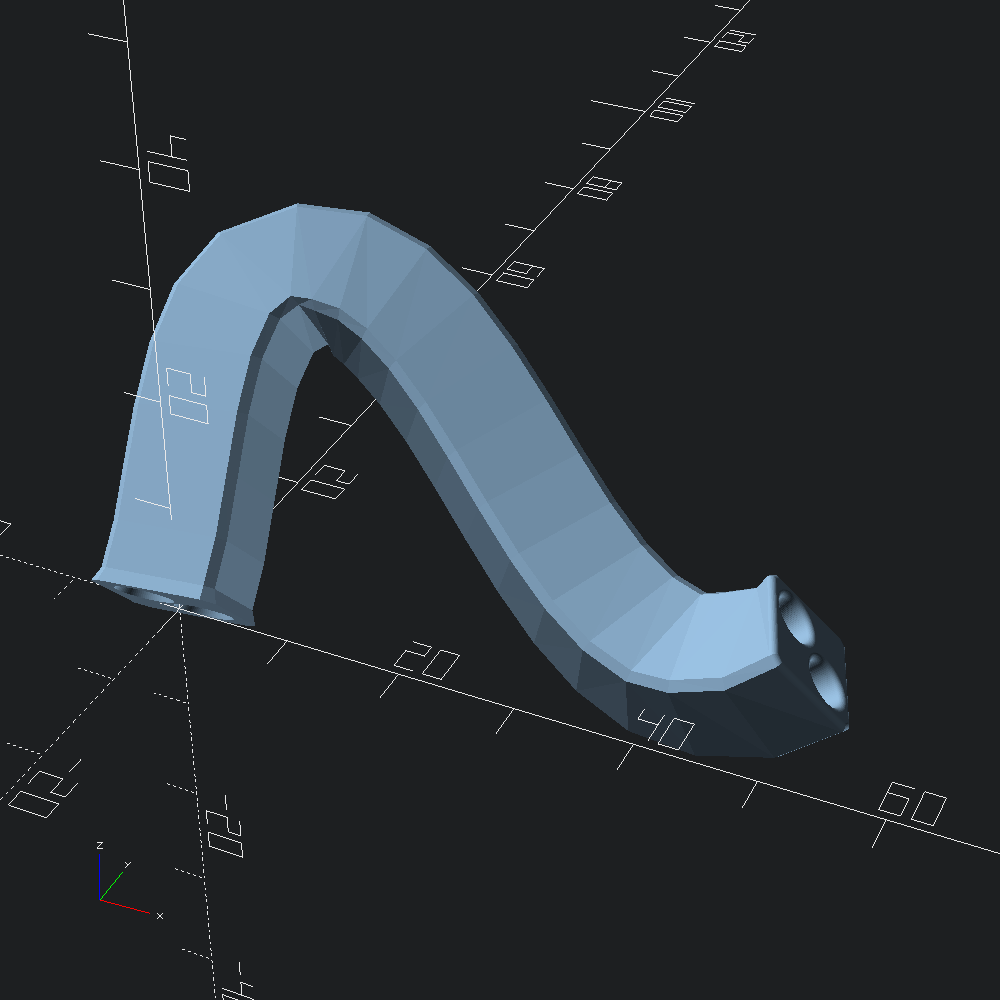
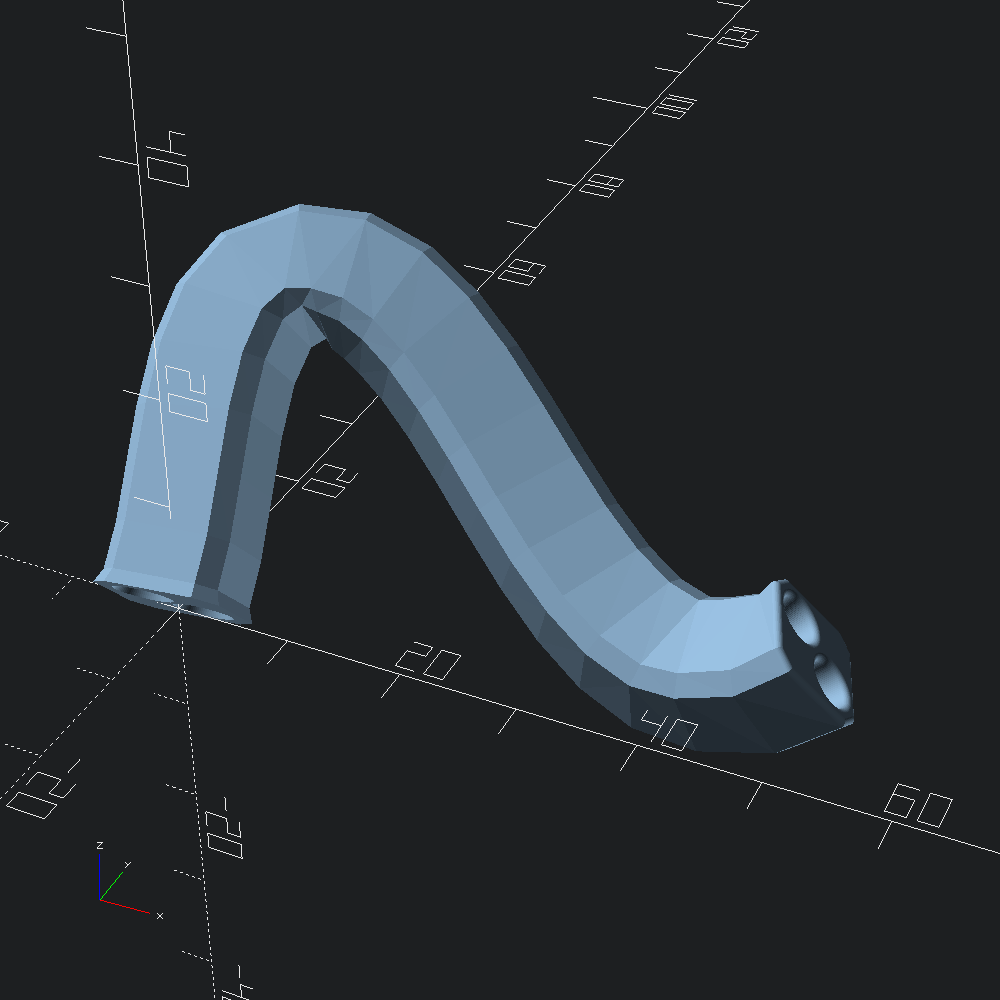
deploy: a351e919ddd36df14385c6fff23ac99229261c29

diff --git a/scad_ml/rounded_polyhole_sweep.html b/scad_ml/rounded_polyhole_sweep.html
@@ -1,9 +1,13 @@
 <!DOCTYPE html>
-<html xmlns="http://www.w3.org/1999/xhtml"><head><title>rounded_polyhole_sweep (scad_ml.rounded_polyhole_sweep)</title><link rel="stylesheet" href="../odoc.css"/><meta charset="utf-8"/><meta name="generator" content="odoc 2.1.0"/><meta name="viewport" content="width=device-width,initial-scale=1.0"/><script src="../highlight.pack.js"></script><script>hljs.initHighlightingOnLoad();</script></head><body class="odoc"><nav class="odoc-nav"><a href="index.html">Up</a> – <a href="index.html">scad_ml</a> &#x00BB; rounded_polyhole_sweep</nav><header class="odoc-preamble"><h1 id="rounded-sweep-with-holes"><a href="#rounded-sweep-with-holes" class="anchor"></a>Rounded sweep with holes</h1><pre><code>open Scad_ml</code></pre><p>Create a bezier spline function which passes through all of points in <code>control</code> using <a href="Scad_ml/Bezier3/index.html#val-of_path"><code>Bezier3.of_path</code></a>, and interpolate <code>20</code> points along it to create our <code>path</code> with <a href="Scad_ml/Bezier3/index.html#val-curve"><code>Bezier3.curve</code></a>.</p><pre><code>let path =
-  let control = Vec3.[ v 0. 0. 2.; v 0. 20. 20.; v 40. 10. 0.; v 50. 10. 5. ] in
-  Bezier3.curve ~fn:20 @@ Bezier3.of_path control</code></pre><p>We can quickly visualize <code>path</code> by using the <a href="Scad_ml/Path3/index.html#val-show_points"><code>Path3.show_points</code></a> helper, which places a <a href="Scad_ml/Scad/index.html#type-d3"><code>Scad.d3</code></a> shape at each point along the path (this takes a function from index to shape, rather than a shape directly to allow for differentiating the points, <i>e.g.</i> numbering with <a href="Scad_ml/Scad/index.html#val-text"><code>Scad.text</code></a>).</p><pre><code>let () =
+<html xmlns="http://www.w3.org/1999/xhtml"><head><title>rounded_polyhole_sweep (scad_ml.rounded_polyhole_sweep)</title><link rel="stylesheet" href="../odoc.css"/><meta charset="utf-8"/><meta name="generator" content="odoc 2.1.0"/><meta name="viewport" content="width=device-width,initial-scale=1.0"/><script src="../highlight.pack.js"></script><script>hljs.initHighlightingOnLoad();</script></head><body class="odoc"><nav class="odoc-nav"><a href="index.html">Up</a> – <a href="index.html">scad_ml</a> &#x00BB; rounded_polyhole_sweep</nav><header class="odoc-preamble"><h1 id="rounded-sweep-with-holes"><a href="#rounded-sweep-with-holes" class="anchor"></a>Rounded sweep with holes</h1><pre><code>open Scad_ml</code></pre><p>Create a bezier spline function which passes through all of points in <code>control</code> using <a href="Scad_ml/Bezier3/index.html#val-of_path"><code>Bezier3.of_path</code></a>, and interpolate <code>20</code> points along it to create our <code>path</code> with <a href="Scad_ml/Bezier3/index.html#val-curve"><code>Bezier3.curve</code></a>.</p><pre><code>let control = Vec3.[ v 0. 0. 2.; v 0. 20. 20.; v 40. 10. 0.; v 50. 10. 5. ]
+let path = Bezier3.curve ~fn:20 @@ Bezier3.of_path control</code></pre><p>We can quickly visualize <code>path</code>, and the <code>control</code> points that it passes through by using the <a href="Scad_ml/Path3/index.html#val-show_points"><code>Path3.show_points</code></a> helper, which places a <a href="Scad_ml/Scad/index.html#type-d3"><code>Scad.d3</code></a> shape at each point along the path (this takes a function from index to shape, rather than a shape directly to allow for differentiating the points, <i>e.g.</i> numbering with <a href="Scad_ml/Scad/index.html#val-text"><code>Scad.text</code></a>).</p><pre><code>let () =
   Scad.to_file &quot;bezier_spline_path.scad&quot;
-  @@ Path3.show_points (fun _ -&gt; Scad.sphere 1.) path</code></pre>
+  @@ Scad.union
+       [ Path3.show_points (fun _ -&gt; Scad.sphere 1.) path
+       ; Path3.show_points
+           (fun _ -&gt; Scad.(color ~alpha:0.3 Color.Magenta @@ sphere 2.))
+           control
+       ]</code></pre>
 <p style="text-align:center;">
 <img src="../assets/bezier_spline_path.png" style="width:150mm;"/>
 </p> <p>Draw a 2d polygon with a chamfered square outline, and two circular holes. Chamfering the square outer path is accomplished via <a href="Scad_ml/Path2/index.html#val-roundover"><code>Path2.roundover</code></a>, which takes a <a href="Scad_ml/Path2/Round/index.html#type-t"><code>Path2.Round.t</code></a> specifation, built here using the <a href="Scad_ml/Path2/Round/index.html#val-flat"><code>Path2.Round.flat</code></a> constructor, that tells <a href="Scad_ml/Path2/index.html#val-roundover"><code>Path2.roundover</code></a> to apply <code>~corner</code> to all of the points of the given path.</p><pre><code>let poly =
@@ -13,13 +17,13 @@
     Path2.[ translate (v2 (-.d) (-.d)) s; translate (v2 d d) s ]
   and outer =
     Path2.square ~center:true (v2 10. 10.)
-    |&gt; Path2.Round.(flat ~corner:(chamf (`Width 1.)))
+    |&gt; Path2.Round.(flat ~corner:(chamf (`Width 2.)))
     |&gt; Path2.roundover
   in
   Poly2.make ~holes outer</code></pre><p>2d shapes defined with <a href="Scad_ml/Poly2/index.html#type-t"><code>Poly2.t</code></a> can be translated into OpenSCAD polygons by way of <a href="Scad_ml/Poly2/index.html#val-to_scad"><code>Poly2.to_scad</code></a>.</p><pre><code>let () = Scad.to_file &quot;chamfered_square_with_holes.scad&quot; (Poly2.to_scad poly)</code></pre>
 <p style="text-align:center;">
 <img src="../assets/chamfered_square_with_holes.png" style="width:150mm;"/>
-</p> <p><a href="Scad_ml/Mesh/index.html#val-sweep"><code>Mesh.sweep</code></a> derived functions take a <code>~spec</code> parameter that specifies what to do with the end faces of the extruded mesh. By default, both caps are flat and identical to the input polygon (<a href="Scad_ml/Mesh/Cap/index.html#val-flat_caps"><code>Mesh.Cap.flat_caps</code></a>), but in this example, we will be rounding them over.</p><p>To build our <code>spec</code>, we'll use the <a href="Scad_ml/Mesh/Cap/index.html#val-capped"><code>Mesh.Cap.capped</code></a> constructor which takes specification types for how we would like to treat the bottom and top faces of our extrusion.</p><p>Here we apply a negative (outward flaring) chamfer to the bottom face, setting <code>holes</code> to <code>`Same</code>, so that the circular holes in <code>poly</code> are also expanded, rather than pinched off (default is (<code>~holes:`Flip</code>), which negates the outer roundover for inner paths). For the top face, we specify a positive (inward) circular roundover, leaving <code>holes</code> as its default since we want the holes to flare out instead.</p><pre><code>let spec =
+</p> <p><a href="Scad_ml/Mesh/index.html#val-sweep"><code>Mesh.sweep</code></a> derived functions take a <code>~spec</code> parameter that specifies what to do with the end faces of the extruded mesh. By default, both caps are flat and identical to the input polygon (<a href="Scad_ml/Mesh/Cap/index.html#val-flat_caps"><code>Mesh.Cap.flat_caps</code></a>), but in this example, we will be rounding them over.</p><p>To build our <code>spec</code>, we'll use the <a href="Scad_ml/Mesh/Cap/index.html#val-capped"><code>Mesh.Cap.capped</code></a> constructor which takes specification types for how we would like to treat the bottom and top faces of our extrusion. In this case, we'll be applying roundovers to both the <code>bot</code>tom and <code>top</code> faces, so we use <a href="Scad_ml/Mesh/Cap/index.html#val-round"><code>Mesh.Cap.round</code></a> which takes an <a href="Scad_ml/Mesh/Cap/index.html#val-offsets"><code>Mesh.Cap.offsets</code></a> containing the offset distance/radius and &quot;vertical&quot; step for each outline of the outer roundover, and optionally, the desired treatment of the inner paths (as <code>~holes</code>). Typically, the offsets will be generated by a helper such as <a href="Scad_ml/Mesh/Cap/index.html#val-chamf"><code>Mesh.Cap.chamf</code></a> and <a href="Scad_ml/Mesh/Cap/index.html#val-circ"><code>Mesh.Cap.circ</code></a> below.</p><p>Here we apply a negative (outward flaring) chamfer to the bottom face, setting <code>holes</code> to <code>`Same</code>, so that the circular holes in <code>poly</code> are also expanded, rather than pinched off (default is (<code>~holes:`Flip</code>), which negates the outer roundover for inner paths). For the top face, we specify a positive (inward) circular roundover, leaving <code>holes</code> as its default since we want the holes to flare out instead.</p><pre><code>let spec =
   Mesh.Cap.(
     capped
       ~bot:(round ~holes:`Same @@ chamf ~height:(-1.2) ~angle:(Float.pi /. 8.) ())

diff --git a/scad_ml/index.html b/scad_ml/index.html
@@ -1,5 +1,5 @@
 <!DOCTYPE html>
-<html xmlns="http://www.w3.org/1999/xhtml"><head><title>index (scad_ml.index)</title><link rel="stylesheet" href="../odoc.css"/><meta charset="utf-8"/><meta name="generator" content="odoc 2.1.0"/><meta name="viewport" content="width=device-width,initial-scale=1.0"/><script src="../highlight.pack.js"></script><script>hljs.initHighlightingOnLoad();</script></head><body class="odoc"><nav class="odoc-nav"><a href="../index.html">Up</a> – scad_ml</nav><header class="odoc-preamble"><h1 id="scad_ml"><a href="#scad_ml" class="anchor"></a>Scad_ml</h1><p>Scad_ml is a OCaml DSL for the <a href="https://openscad.org/">OpenSCAD</a> solid modelling language.</p></header><nav class="odoc-toc"><ul><li><a href="#notable-difference-from-the-openscad-language">Notable difference from the OpenSCAD language</a></li><li><a href="#usage">Usage</a></li><li><a href="#api">API</a></li><li><a href="#examples">Examples</a></li><li><a href="#ppx">[@@deriving scad]</a></li></ul></nav><div class="odoc-content"><h2 id="notable-difference-from-the-openscad-language"><a href="#notable-difference-from-the-openscad-language" class="anchor"></a>Notable difference from the OpenSCAD language</h2><ul><li>Angles are represented in radians (and converted to degrees when compiling to OpenSCAD).</li><li>The dimensional system (2D or 3D) each shape inhabits is tracked by the type system. This is used to restrict the operations that can be legally applied (e.g. 2D shapes cannot be moved off of the xy plane, <a href="Scad_ml/Scad/index.html#val-linear_extrude"><code>linear_extrude</code></a> can only be applied to 2D shapes) and enforcing non-mixing of 2D and 3D shapes during boolean operations.</li><li>Additional modules providing sweeps, roundovers, and more, inspired largely by <a href="https://github.com/revarbat/BOSL2">BOSL2</a>, but also other OpenSCAD libraries such as <a href="https://github.com/JustinSDK/dotSCAD/tree/master/src">dotSCAD</a>, and <a href="https://github.com/rcolyer/plot-function">PlotFunction</a>.</li></ul><h2 id="usage"><a href="#usage" class="anchor"></a>Usage</h2><pre><code>open Scad_ml
+<html xmlns="http://www.w3.org/1999/xhtml"><head><title>index (scad_ml.index)</title><link rel="stylesheet" href="../odoc.css"/><meta charset="utf-8"/><meta name="generator" content="odoc 2.1.0"/><meta name="viewport" content="width=device-width,initial-scale=1.0"/><script src="../highlight.pack.js"></script><script>hljs.initHighlightingOnLoad();</script></head><body class="odoc"><nav class="odoc-nav"><a href="../index.html">Up</a> – scad_ml</nav><header class="odoc-preamble"><h1 id="scad_ml"><a href="#scad_ml" class="anchor"></a>Scad_ml</h1><p>Scad_ml is a OCaml DSL for the <a href="https://openscad.org/">OpenSCAD</a> solid modelling language.</p></header><nav class="odoc-toc"><ul><li><a href="#notable-difference-from-the-openscad-language">Notable difference from the OpenSCAD language</a></li><li><a href="#usage">Usage</a></li><li><a href="#api">API</a></li><li><a href="#examples">Examples</a><ul><li><a href="#paths-and-sweeps">Paths and Sweeps</a></li><li><a href="#rounded-extrusions">Rounded Extrusions</a></li><li><a href="#function-plotting">Function Plotting</a></li></ul></li><li><a href="#ppx">[@@deriving scad]</a></li></ul></nav><div class="odoc-content"><h2 id="notable-difference-from-the-openscad-language"><a href="#notable-difference-from-the-openscad-language" class="anchor"></a>Notable difference from the OpenSCAD language</h2><ul><li>Angles are represented in radians (and converted to degrees when compiling to OpenSCAD).</li><li>The dimensional system (2D or 3D) each shape inhabits is tracked by the type system. This is used to restrict the operations that can be legally applied (e.g. 2D shapes cannot be moved off of the xy plane, <a href="Scad_ml/Scad/index.html#val-linear_extrude"><code>linear_extrude</code></a> can only be applied to 2D shapes) and enforcing non-mixing of 2D and 3D shapes during boolean operations.</li><li>Additional modules providing sweeps, roundovers, and more, inspired largely by <a href="https://github.com/revarbat/BOSL2">BOSL2</a>, but also other OpenSCAD libraries such as <a href="https://github.com/JustinSDK/dotSCAD/tree/master/src">dotSCAD</a>, and <a href="https://github.com/rcolyer/plot-function">PlotFunction</a>.</li></ul><h2 id="usage"><a href="#usage" class="anchor"></a>Usage</h2><pre><code>open Scad_ml
 
 let () =
   let scad_logo =
@@ -14,4 +14,4 @@ let () =
       ; Scad.color ~alpha:0.25 Color.Magenta cross_cyl
       ]
   in
-  Scad.to_file &quot;scad_logo.scad&quot; scad_logo</code></pre> <img src="../assets/scad_logo.png" style="width:125mm;" /> <p>Generted scads can then be viewed with the <a href="https://openscad.org/downloads.html">OpenSCAD viewer</a> as you normally would.</p><h2 id="api"><a href="#api" class="anchor"></a>API</h2><ul class="modules"><li><a href="Scad_ml/index.html"><code>Scad_ml</code></a> </li></ul><h2 id="examples"><a href="#examples" class="anchor"></a>Examples</h2><ul><li><a href="rounded_polyhole_sweep.html"><b>Rounded sweep with holes</b></a></li><li><a href="polar_rose.html"><b>Rose polar plot</b></a></li></ul><h2 id="ppx"><a href="#ppx" class="anchor"></a>[@@deriving scad]</h2><p>There is a companion ppx, <a href="https://github.com/geoffder/ppx_deriving_scad">[@@deriving scad]</a> for generating transformation functions for user-defined records and abstract types made up of the <a href="Scad_ml/Scad/index.html#type-t"><code>Scad.t</code></a>, along with their corresponding vector (<a href="Scad_ml/Vec2/index.html#type-t"><code>Vec2.t</code></a> or <a href="Scad_ml/Vec3/index.html#type-t"><code>Vec3.t</code></a>) types (and those composed of them) provided in this library.</p></div></body></html>
+  Scad.to_file &quot;scad_logo.scad&quot; scad_logo</code></pre> <img src="../assets/scad_logo.png" style="width:125mm;" /> <p>Generted scads can then be viewed with the <a href="https://openscad.org/downloads.html">OpenSCAD viewer</a> as you normally would.</p><h2 id="api"><a href="#api" class="anchor"></a>API</h2><ul class="modules"><li><a href="Scad_ml/index.html"><code>Scad_ml</code></a> </li></ul><h2 id="examples"><a href="#examples" class="anchor"></a>Examples</h2><h3 id="paths-and-sweeps"><a href="#paths-and-sweeps" class="anchor"></a>Paths and Sweeps</h3><ul><li><a href="spline.html"><b>Cubic spline</b></a></li><li><a href="arc_points.html"><b>Arcing paths</b></a></li><li><a href="helices.html"><b>Helical paths and extrusions</b></a></li><li><a href="resampled_path.html"><b>Path resampling and scaling/twisting sweeps</b></a></li><li><a href="spiral.html"><b>Flat spiral with bespoke sweep transforms</b></a></li><li><a href="wave_cylinder.html"><b>Wavey hollow cylinder with bespoke sweep transforms</b></a></li></ul><h3 id="rounded-extrusions"><a href="#rounded-extrusions" class="anchor"></a>Rounded Extrusions</h3><ul><li><a href="rounded_polyhole_sweep.html"><b>Rounded sweep along bezier spline with holes</b></a></li><li><a href="rounded_prism_tunnel.html"><b>Slanted prism with hole</b></a></li></ul><h3 id="function-plotting"><a href="#function-plotting" class="anchor"></a>Function Plotting</h3><ul><li><a href="polar_rose.html"><b>Rose polar plot</b></a></li><li><a href="cartesian_gravity_well.html"><b>Cartesian gravity well</b></a></li><li><a href="axial_chalice.html"><b>Axial chalice</b></a></li></ul><h2 id="ppx"><a href="#ppx" class="anchor"></a>[@@deriving scad]</h2><p>There is a companion ppx, <a href="https://github.com/geoffder/ppx_deriving_scad">[@@deriving scad]</a> for generating transformation functions for user-defined records and abstract types made up of the <a href="Scad_ml/Scad/index.html#type-t"><code>Scad.t</code></a>, along with their corresponding vector (<a href="Scad_ml/Vec2/index.html#type-t"><code>Vec2.t</code></a> or <a href="Scad_ml/Vec3/index.html#type-t"><code>Vec3.t</code></a>) types (and those composed of them) provided in this library.</p></div></body></html>

diff --git a/scad_ml/resampled_path.html b/scad_ml/resampled_path.html
@@ -1,15 +1,19 @@
 <!DOCTYPE html>
-<html xmlns="http://www.w3.org/1999/xhtml"><head><title>resampled_path (scad_ml.resampled_path)</title><link rel="stylesheet" href="../odoc.css"/><meta charset="utf-8"/><meta name="generator" content="odoc 2.1.0"/><meta name="viewport" content="width=device-width,initial-scale=1.0"/><script src="../highlight.pack.js"></script><script>hljs.initHighlightingOnLoad();</script></head><body class="odoc"><nav class="odoc-nav"><a href="index.html">Up</a> – <a href="index.html">scad_ml</a> &#x00BB; resampled_path</nav><header class="odoc-preamble"><h1 id="path-resampling"><a href="#path-resampling" class="anchor"></a>Path resampling</h1><pre><code>open Scad_ml
-
-let () =
-  let path = [ v3 0. 0. 0.; v3 5. 5. 5.; v3 5. 5. 15. ] in
-  let resampled = Path3.resample ~freq:(`Spacing 1.) path in
+<html xmlns="http://www.w3.org/1999/xhtml"><head><title>resampled_path (scad_ml.resampled_path)</title><link rel="stylesheet" href="../odoc.css"/><meta charset="utf-8"/><meta name="generator" content="odoc 2.1.0"/><meta name="viewport" content="width=device-width,initial-scale=1.0"/><script src="../highlight.pack.js"></script><script>hljs.initHighlightingOnLoad();</script></head><body class="odoc"><nav class="odoc-nav"><a href="index.html">Up</a> – <a href="index.html">scad_ml</a> &#x00BB; resampled_path</nav><header class="odoc-preamble"><h1 id="path-resampling-and-scaling/twisting-sweeps"><a href="#path-resampling-and-scaling/twisting-sweeps" class="anchor"></a>Path resampling and scaling/twisting sweeps</h1><pre><code>open Scad_ml</code></pre><p>Oftentimes, we would just like to define our paths without colinear points, such that it only consists of corners. However, some applications call for more fine sampling, and in those times we can reach for <a href="Scad_ml/Path3/index.html#val-resample"><code>Path3.resample</code></a> or <a href="Scad_ml/Path3/index.html#val-subdivide"><code>Path3.subdivide</code></a>. For this example, the exact number of points isn't a concern, so we'll specify a new point spacing as our <code>~freq</code>.</p><pre><code>let path = [ v3 0. 0. 0.; v3 5. 5. 5.; v3 5. 5. 15. ]
+let resampled = Path3.subdivide ~freq:(`Spacing 0.5) path</code></pre><p>Lets visualize our original <code>path</code>, and the <code>resampled</code> points with <a href="Scad_ml/Path3/index.html#val-show_points"><code>Path3.show_points</code></a> to get a sense of how fine our <code>~freq</code> parameter has gotten us.</p><pre><code>let () =
   let old_marks =
-    let s = Scad.color Color.Red @@ Scad.sphere 0.5 in
-    List.map (fun p -&gt; Scad.translate p s) path
-  and new_marks =
-    let s = Scad.color ~alpha:0.1 Color.Yellow @@ Scad.sphere 1.0 in
-    List.map (fun p -&gt; Scad.translate p s) resampled
+    let f _ = Scad.(color ~alpha:0.1 Color.Magenta @@ sphere 0.5) in
+    Path3.show_points f path
+  and new_marks = Path3.show_points (fun _ -&gt; Scad.sphere 0.2) resampled in
+  Scad.to_file &quot;resampled_path.scad&quot; (Scad.union [ old_marks; new_marks ])</code></pre>
+<p style="text-align:center;">
+<img src="../assets/resampled_path.png" style="width:150mm;"/>
+</p> <p>One such alluded to application for resampling, is when additional transformations such as scaling and twisting along a path extrusion is desired.</p><pre><code>let () =
+  let mesh =
+    Mesh.path_extrude ~scale:(v2 4. 1.) ~twist:(Float.pi *. 4.) ~path:resampled
+    @@ Poly2.square ~center:true (v2 1. 0.5)
   in
-  let scad = Scad.union (old_marks @ new_marks) in
-  Scad.to_file &quot;resampled_path.scad&quot; scad</code></pre></header><div class="odoc-content"></div></body></html>
+  Scad.to_file &quot;scaling_twister_extrude.scad&quot; (Mesh.to_scad mesh)</code></pre>
+<p style="text-align:center;">
+<img src="../assets/scaling_twister_extrude.png" style="width:150mm;"/>
+</p> </header><div class="odoc-content"></div></body></html>

diff --git a/scad_ml/rounded_prism_tunnel.html b/scad_ml/rounded_prism_tunnel.html
@@ -1,33 +1,21 @@
 <!DOCTYPE html>
-<html xmlns="http://www.w3.org/1999/xhtml"><head><title>rounded_prism_tunnel (scad_ml.rounded_prism_tunnel)</title><link rel="stylesheet" href="../odoc.css"/><meta charset="utf-8"/><meta name="generator" content="odoc 2.1.0"/><meta name="viewport" content="width=device-width,initial-scale=1.0"/><script src="../highlight.pack.js"></script><script>hljs.initHighlightingOnLoad();</script></head><body class="odoc"><nav class="odoc-nav"><a href="index.html">Up</a> – <a href="index.html">scad_ml</a> &#x00BB; rounded_prism_tunnel</nav><header class="odoc-preamble"><h1 id="rounded-prism-tunnel"><a href="#rounded-prism-tunnel" class="anchor"></a>Rounded Prism Tunnel</h1><pre><code>open Scad_ml
-
-let () =
-  let bot = Poly3.box ~center:true ~thickness:(v2 3. 3.) (v2 5. 5.) in
-  let top =
-    Poly3.translate (v3 0. 0. 5.) (Poly3.rotate (v3 0. (Float.pi /. 4.) 0.) bot)
+<html xmlns="http://www.w3.org/1999/xhtml"><head><title>rounded_prism_tunnel (scad_ml.rounded_prism_tunnel)</title><link rel="stylesheet" href="../odoc.css"/><meta charset="utf-8"/><meta name="generator" content="odoc 2.1.0"/><meta name="viewport" content="width=device-width,initial-scale=1.0"/><script src="../highlight.pack.js"></script><script>hljs.initHighlightingOnLoad();</script></head><body class="odoc"><nav class="odoc-nav"><a href="index.html">Up</a> – <a href="index.html">scad_ml</a> &#x00BB; rounded_prism_tunnel</nav><header class="odoc-preamble"><h1 id="rounded-prism-tunnel"><a href="#rounded-prism-tunnel" class="anchor"></a>Rounded Prism Tunnel</h1><pre><code>open Scad_ml</code></pre><pre><code>let bot = Poly3.box ~center:true ~thickness:(v2 3. 3.) (v2 5. 5.)
+let top = Poly3.translate (v3 0. 0. 5.) (Poly3.rotate (v3 0. (Float.pi /. 4.) 0.) bot)</code></pre><pre><code>let mesh =
+  let outer =
+    Mesh.Prism.spec
+      ~joint_top:(0.8, 0.8)
+      ~joint_bot:(0.8, 0.8)
+      ~joint_sides:(`Flat (1.5, 1.5))
+      ()
+  and holes =
+    `Spec
+      (Mesh.Prism.spec
+         ~joint_top:(-0.5, 0.5)
+         ~joint_bot:(-0.5, 0.5)
+         ~joint_sides:(`Flat (0.5, 0.5))
+         () )
   in
-  let scad =
-    Mesh.(
-      prism
-        ~debug:false
-        ~fn:16
-        ~outer:
-          Prism.(
-            spec
-              ~joint_top:(0.8, 0.8)
-              ~joint_bot:(0.8, 0.8)
-              ~joint_sides:(`Flat (1.5, 1.5))
-              ())
-        ~holes:
-          Prism.(
-            `Spec
-              (spec
-                 ~joint_top:(-0.5, 0.5)
-                 ~joint_bot:(-0.5, 0.5)
-                 ~joint_sides:(`Flat (0.5, 0.5))
-                 () ))
-        bot
-        top)
-    |&gt; Mesh.to_scad
-  in
-  Scad.to_file &quot;rounded_prism_tunnel.scad&quot; scad</code></pre></header><div class="odoc-content"></div></body></html>
+  Mesh.prism ~debug:false ~fn:16 ~outer ~holes bot top</code></pre><p>Convert our mesh into an OpenSCAD polyhedron and output to file.</p><pre><code>let () = Scad.to_file &quot;rounded_prism_tunnel.scad&quot; (Mesh.to_scad mesh)</code></pre>
+<p style="text-align:center;">
+<img src="../assets/rounded_prism_tunnel.png" style="width:150mm;"/>
+</p> </header><div class="odoc-content"></div></body></html>

diff --git a/scad_ml/wave_cylinder.html b/scad_ml/wave_cylinder.html
@@ -1,14 +1,16 @@
 <!DOCTYPE html>
 <html xmlns="http://www.w3.org/1999/xhtml"><head><title>wave_cylinder (scad_ml.wave_cylinder)</title><link rel="stylesheet" href="../odoc.css"/><meta charset="utf-8"/><meta name="generator" content="odoc 2.1.0"/><meta name="viewport" content="width=device-width,initial-scale=1.0"/><script src="../highlight.pack.js"></script><script>hljs.initHighlightingOnLoad();</script></head><body class="odoc"><nav class="odoc-nav"><a href="index.html">Up</a> – <a href="index.html">scad_ml</a> &#x00BB; wave_cylinder</nav><header class="odoc-preamble"><h1 id="wavey-cylinder-sweep"><a href="#wavey-cylinder-sweep" class="anchor"></a>Wavey Cylinder Sweep</h1><pre><code>open Scad_ml
 
-let () =
+let poly =
+  let w = 2. in
+  Poly2.make [ v2 0. 0.; v2 w 0.; v2 w 1.; v2 0. 1. ]
+
+let mesh =
   let r = 10.
   and h = 20.
-  and w = 2.
   and s = 2.
   and step = 4.
   and rad d = d *. Float.pi /. 180. in
-  let shape = Poly2.make [ v2 0. 0.; v2 w 0.; v2 w 1.; v2 0. 1. ] in
   let f i =
     let t = Float.of_int i *. step in
     MultMatrix.(
@@ -16,5 +18,7 @@ let () =
         (mul (rotation (v3 (rad 90.) 0. (rad t))) (translation (v3 r 0. 0.)))
         (scaling (v3 1. (h +. (s *. Float.sin (rad (t *. 6.)))) 1.)))
   in
-  let scad = Mesh.(to_scad @@ sweep ~transforms:(List.init ((360 / 4) + 1) f) shape) in
-  Scad.to_file &quot;wave_cylinder.scad&quot; scad</code></pre></header><div class="odoc-content"></div></body></html>
+  Mesh.sweep ~transforms:(List.init ((360 / 4) + 1) f) poly</code></pre><p>Convert our mesh into an OpenSCAD polyhedron and output to file.</p><pre><code>let () = Scad.to_file &quot;wave_cylinder.scad&quot; (Mesh.to_scad mesh)</code></pre>
+<p style="text-align:center;">
+<img src="../assets/wave_cylinder.png" style="width:150mm;"/>
+</p> </header><div class="odoc-content"></div></body></html>

diff --git a/scad_ml/cartesian_gravity_well.html b/scad_ml/cartesian_gravity_well.html
@@ -1,20 +1,19 @@
 <!DOCTYPE html>
 <html xmlns="http://www.w3.org/1999/xhtml"><head><title>cartesian_gravity_well (scad_ml.cartesian_gravity_well)</title><link rel="stylesheet" href="../odoc.css"/><meta charset="utf-8"/><meta name="generator" content="odoc 2.1.0"/><meta name="viewport" content="width=device-width,initial-scale=1.0"/><script src="../highlight.pack.js"></script><script>hljs.initHighlightingOnLoad();</script></head><body class="odoc"><nav class="odoc-nav"><a href="index.html">Up</a> – <a href="index.html">scad_ml</a> &#x00BB; cartesian_gravity_well</nav><header class="odoc-preamble"><h1 id="cartesian-gravity-well"><a href="#cartesian-gravity-well" class="anchor"></a>Cartesian Gravity Well</h1><pre><code>open Scad_ml
 
-let () =
-  let scad =
-    let gravity_well ~x ~y =
-      let z = 50. -. (50. /. Float.sqrt ((x *. x) +. (y *. y))) in
-      if z &lt; 1. then 1. else z
-    in
-    Mesh.cartesian_plot
-      ~min_x:(-10.)
-      ~x_steps:30
-      ~max_x:0.
-      ~min_y:(-10.)
-      ~y_steps:60
-      ~max_y:10.
-      gravity_well
-    |&gt; Mesh.to_scad
-  in
-  Scad.to_file &quot;cartesian_gravity_well.scad&quot; scad</code></pre></header><div class="odoc-content"></div></body></html>
+let gravity_well ~x ~y =
+  let z = 50. -. (50. /. Float.sqrt ((x *. x) +. (y *. y))) in
+  if z &lt; 1. then 1. else z
+
+let mesh =
+  Mesh.cartesian_plot
+    ~min_x:(-10.)
+    ~x_steps:30
+    ~max_x:0.
+    ~min_y:(-10.)
+    ~y_steps:60
+    ~max_y:10.
+    gravity_well</code></pre><p>Convert our mesh into an OpenSCAD polyhedron and output to file.</p><pre><code>let () = Scad.to_file &quot;cartesian_gravity_well.scad&quot; (Mesh.to_scad mesh)</code></pre>
+<p style="text-align:center;">
+<img src="../assets/cartesian_gravity_well.png" style="width:150mm;"/>
+</p> </header><div class="odoc-content"></div></body></html>

diff --git a/scad_ml/axial_chalice.html b/scad_ml/axial_chalice.html
@@ -1,13 +1,11 @@
 <!DOCTYPE html>
 <html xmlns="http://www.w3.org/1999/xhtml"><head><title>axial_chalice (scad_ml.axial_chalice)</title><link rel="stylesheet" href="../odoc.css"/><meta charset="utf-8"/><meta name="generator" content="odoc 2.1.0"/><meta name="viewport" content="width=device-width,initial-scale=1.0"/><script src="../highlight.pack.js"></script><script>hljs.initHighlightingOnLoad();</script></head><body class="odoc"><nav class="odoc-nav"><a href="index.html">Up</a> – <a href="index.html">scad_ml</a> &#x00BB; axial_chalice</nav><header class="odoc-preamble"><h1 id="axial-chalice"><a href="#axial-chalice" class="anchor"></a>Axial Chalice</h1><pre><code>open Scad_ml
 
-let () =
-  let scad =
-    let f ~z ~a:_ = Float.(5. *. (cos (log ((z /. 5.) +. 1.) *. pi) +. 2.)) in
-    let outer = Mesh.axial_plot ~min_z:0. ~z_steps:50 ~max_z:50. f
-    and inner =
-      Mesh.axial_plot ~min_z:2. ~z_steps:50 ~max_z:51. (fun ~z ~a -&gt; f ~z ~a -. 2.)
-    in
-    Scad.difference (Mesh.to_scad outer) [ Mesh.to_scad inner ]
-  in
-  Scad.to_file &quot;axial_chalice.scad&quot; scad</code></pre></header><div class="odoc-content"></div></body></html>
+let f ~z ~a:_ = Float.(5. *. (cos (log ((z /. 5.) +. 1.) *. pi) +. 2.))
+let outer = Mesh.axial_plot ~min_z:0. ~z_steps:50 ~max_z:50. f
+let inner = Mesh.axial_plot ~min_z:2. ~z_steps:50 ~max_z:51. (fun ~z ~a -&gt; f ~z ~a -. 2.)</code></pre><p>Convert our mesh into an OpenSCAD polyhedron and output to file.</p><pre><code>let () =
+  Scad.to_file &quot;axial_chalice.scad&quot;
+  @@ Scad.difference (Mesh.to_scad outer) [ Mesh.to_scad inner ]</code></pre>
+<p style="text-align:center;">
+<img src="../assets/axial_chalice.png" style="width:150mm;"/>
+</p> </header><div class="odoc-content"></div></body></html>

diff --git a/scad_ml/arc_points.html b/scad_ml/arc_points.html
@@ -1,0 +1,12 @@
+<!DOCTYPE html>
+<html xmlns="http://www.w3.org/1999/xhtml"><head><title>arc_points (scad_ml.arc_points)</title><link rel="stylesheet" href="../odoc.css"/><meta charset="utf-8"/><meta name="generator" content="odoc 2.1.0"/><meta name="viewport" content="width=device-width,initial-scale=1.0"/><script src="../highlight.pack.js"></script><script>hljs.initHighlightingOnLoad();</script></head><body class="odoc"><nav class="odoc-nav"><a href="index.html">Up</a> – <a href="index.html">scad_ml</a> &#x00BB; arc_points</nav><header class="odoc-preamble"><h1 id="arcing-paths"><a href="#arcing-paths" class="anchor"></a>Arcing paths</h1><pre><code>open Scad_ml</code></pre><p>A numbered marker function for <a href="Scad_ml/Path2/index.html#val-show_points"><code>Path2.show_points</code></a> and <a href="Scad_ml/Path3/index.html#val-show_points"><code>Path3.show_points</code></a> that we can use to visualize our arcs (and their ordering).</p><pre><code>let show i = Scad.linear_extrude ~height:1. (Scad.text ~size:5. (Printf.sprintf &quot;%i&quot; i))</code></pre><pre><code>let () =
+  let arc = Path2.arc_through ~fn:5 (v2 10. 10.) (v2 20. 20.) (v2 10. 30.) in
+  Scad.to_file &quot;arc_points_2d.scad&quot; (Path2.show_points show arc)</code></pre>
+<p style="text-align:center;">
+<img src="../assets/arc_points_2d.png" style="width:150mm;"/>
+</p> <pre><code>let () =
+  let arc = Path3.arc_through ~fn:5 (v3 0. (-10.) 0.) (v3 10. (-5.) 10.) (v3 0. 0. 20.) in
+  Scad.to_file &quot;arc_points_3d.scad&quot; (Path3.show_points show arc)</code></pre>
+<p style="text-align:center;">
+<img src="../assets/arc_points_3d.png" style="width:150mm;"/>
+</p> </header><div class="odoc-content"></div></body></html>

diff --git a/scad_ml/helices.html b/scad_ml/helices.html
@@ -1,0 +1,24 @@
+<!DOCTYPE html>
+<html xmlns="http://www.w3.org/1999/xhtml"><head><title>helices (scad_ml.helices)</title><link rel="stylesheet" href="../odoc.css"/><meta charset="utf-8"/><meta name="generator" content="odoc 2.1.0"/><meta name="viewport" content="width=device-width,initial-scale=1.0"/><script src="../highlight.pack.js"></script><script>hljs.initHighlightingOnLoad();</script></head><body class="odoc"><nav class="odoc-nav"><a href="index.html">Up</a> – <a href="index.html">scad_ml</a> &#x00BB; helices</nav><header class="odoc-preamble"><h1 id="helical-paths-and-extrusions"><a href="#helical-paths-and-extrusions" class="anchor"></a>Helical paths and extrusions</h1><pre><code>open Scad_ml
+
+let () =
+  let scad =
+    let pts = Path3.helix ~left:false ~pitch:5. ~n_turns:10 ~r2:10. 5. in
+    let s = Scad.color Color.Red @@ Scad.sphere 1. in
+    Scad.union @@ List.map (fun p -&gt; Scad.translate p s) pts
+  in
+  Scad.to_file &quot;helix_path_points.scad&quot; scad</code></pre>
+<p style="text-align:center;">
+<img src="../assets/helix_path_points.png" style="width:150mm;"/>
+</p> <pre><code>let poly =
+  [ -10., -1.; -10., 6.; -7., 6.; -7., 1.; 7., 1.; 7., 6.; 10., 6.; 10., -1. ]
+  |&gt; Path2.of_tups
+  |&gt; Poly2.make
+
+let mesh =
+  Mesh.helix_extrude ~scale:(v2 1. 1.) ~left:true ~pitch:30. ~n_turns:10 ~r2:100. 50. poly
+
+let () = Scad.to_file &quot;helix_extrude.scad&quot; (Mesh.to_scad mesh)</code></pre>
+<p style="text-align:center;">
+<img src="../assets/helix_extrude.png" style="width:150mm;"/>
+</p> </header><div class="odoc-content"></div></body></html>

diff --git a/scad_ml/spiral.html b/scad_ml/spiral.html
@@ -15,4 +15,7 @@ let () =
     Mesh.sweep ~transforms:(List.init (Int.of_float (1. /. step) + 1) f) square
     |&gt; Mesh.to_scad
   in
-  Scad.to_file &quot;spiral.scad&quot; scad</code></pre></header><div class="odoc-content"></div></body></html>
+  Scad.to_file &quot;spiral.scad&quot; scad</code></pre>
+<p style="text-align:center;">
+<img src="../assets/spiral.png" style="width:150mm;"/>
+</p> </header><div class="odoc-content"></div></body></html>

diff --git a/scad_ml/spline.html b/scad_ml/spline.html
@@ -12,4 +12,7 @@ let () =
     Mesh.(to_scad @@ path_extrude ~path square)
   in
   let scad = Scad.union (line :: marks) in
-  Scad.to_file &quot;spline.scad&quot; scad</code></pre></header><div class="odoc-content"></div></body></html>
+  Scad.to_file &quot;spline.scad&quot; scad</code></pre>
+<p style="text-align:center;">
+<img src="../assets/spline.png" style="width:150mm;"/>
+</p> </header><div class="odoc-content"></div></body></html>
